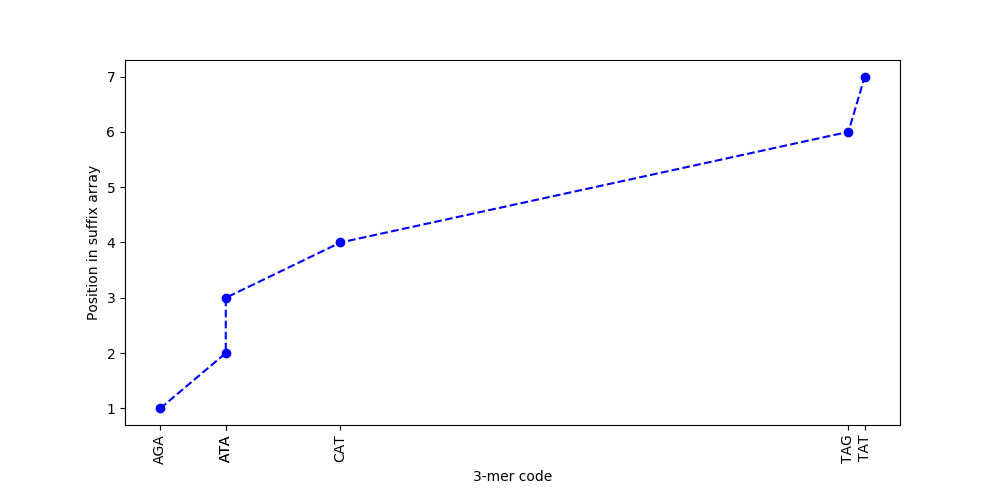
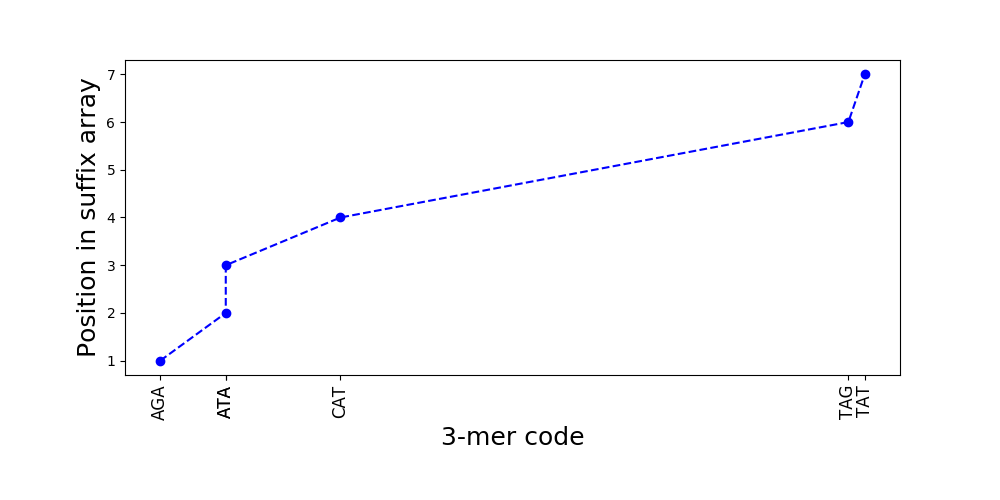
Adjusted font sizes on kmer examples plot

diff --git a/plot_kmer_example.py b/plot_kmer_example.py
@@ -40,8 +40,8 @@ xs = [x[0] for x in points]
 ys = [x[1] for x in points]
 plt.figure(figsize=(10,5))
 plt.plot(xs, ys, linestyle='--', marker='o', color='b')
-plt.xticks(labellocs, labels, rotation='vertical')
-plt.xlabel(str(k) + '-mer code')
-plt.ylabel('Position in suffix array')
-plt.gcf().subplots_adjust(bottom=0.15)
+plt.xticks(labellocs, labels, rotation='vertical', size = 12)
+plt.xlabel(str(k) + '-mer code', size = 18)
+plt.ylabel('Position in suffix array', size = 18)
+plt.gcf().subplots_adjust(bottom=0.25)
 plt.savefig('kmer_example.png')
